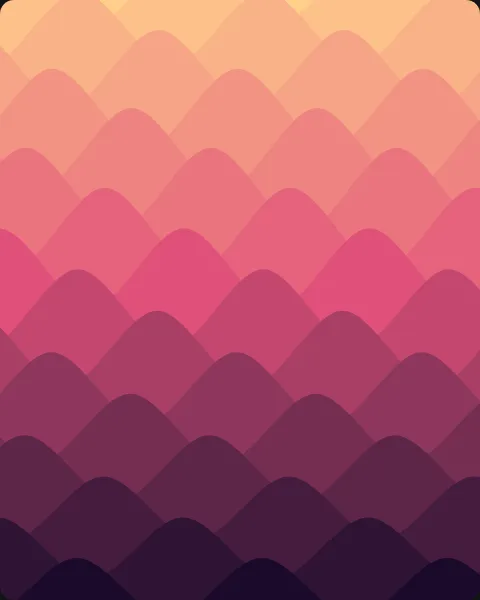
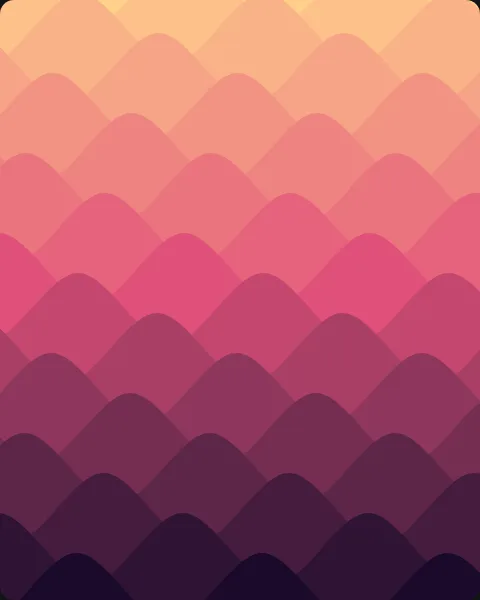
133차: 앱스트랙트 밸리 모션 — 옆 이동 대신 능선이 위→아래로 내려오며(한 층 5초) 색이 위치 따라 바뀜, 맨 위에서 새 능선 생성 · 아래로 빠짐
Claude-Session: https://claude.ai/code/session_018YFXtycg7XUaka8AzxDZiV

diff --git a/app/new/js/bg.js b/app/new/js/bg.js
@@ -2062,7 +2062,7 @@ function vaLab(h) { const [r, g, b] = hx3(h).map(vaLin), l = Math.cbrt(.41222147
   return [.2104542553 * l + .793617785 * m - .0040720468 * s, 1.9779984951 * l - 2.428592205 * m + .4505937099 * s, .0259040371 * l + .7827717662 * m - .808675766 * s]; }
 function vaRgb([L, A, B]) { const l = (L + .3963377774 * A + .2158037573 * B) ** 3, m = (L - .1055613458 * A - .0638541728 * B) ** 3, s = (L - .0894841775 * A - 1.291485548 * B) ** 3;
   return 'rgb(' + [4.0767416621 * l - 3.3077115913 * m + .2309699292 * s, -1.2684380046 * l + 2.6097574011 * m - .3413193965 * s, -.0041960863 * l - .7034186147 * m + 1.707614701 * s].map(v => Math.round(Math.max(0, Math.min(1, vaGam(v))) * 255)).join(',') + ')'; }
-function valleyRamp(pi, n) {   // 위 → 가운데 → 아래, n색
+function valleyRamp(pi, n) {   // 위 → 가운데 → 아래, n색 (위치에 따라 고르게 집어 쓰도록 촘촘히)
   const key = pi + '|' + n; let R = vaRamp.get(key); if (R) return R;
   const E = VALLEY_PAL[pi], A = vaLab(E[1]), B = vaLab(E[2]), C = vaLab(E[3]);
   R = Array.from({ length: n }, (_, i) => { const u = i / (n - 1), [P, Q, k] = u < .5 ? [A, B, u * 2] : [B, C, u * 2 - 1]; return vaRgb(P.map((v, j) => v + (Q[j] - v) * k)); });
@@ -2074,24 +2074,27 @@ function valleyOf(seed) {
   if (vaCache.size > 60) vaCache.delete(vaCache.keys().next().value);
   vaCache.set(seed, p); return p;
 }
+// 모션 (132차 2, 앤드류 11-26): 능선 모양은 층마다 고정 · 층 전체가 위→아래로 천천히 내려오며(한 층 5초) 색은 위치 따라 밝음→깊음 · 맨 위에서 새 능선이 생겨나고 맨 아래로 빠져나가요. 옆 이동 없음.
 function drawValley(cv, seed, t) {
   const W = cv.width, H = cv.height, P = valleyOf(seed), pi = valleyPal(seed, cv.dataset.pal), light = !!VALLEY_PAL[pi][4], x = cv.getContext('2d');
-  const N = P.n, C = valleyRamp(pi, N + 2), ax = W * P.ax, ay = W * P.ay;
+  const N = P.n, K = 8, M = (N + 1) * K + 1, C = valleyRamp(pi, M), ax = W * P.ax, ay = W * P.ay;
+  const col = q => C[Math.max(0, Math.min(M - 1, Math.round(q / (N + 1) * (M - 1))))];   // 위치 q(0 = 맨 위 바탕 … N+1 = 맨 아래)의 색
+  const sc = t / 5, base = Math.floor(sc), f = sc - base;
   x.globalCompositeOperation = 'source-over'; x.globalAlpha = 1;
-  x.fillStyle = P.line ? (light ? C[0] : C[N + 1]) : C[0]; x.fillRect(0, 0, W, H);
+  x.fillStyle = P.line ? (light ? C[0] : C[M - 1]) : C[0]; x.fillRect(0, 0, W, H);
   if (P.line) { x.lineWidth = W * .004; x.lineJoin = 'round'; }
-  for (let i = 0; i <= N; i++) {
-    const root = H * (i / N) - H * .02, sh = W * P.off * i * 6 + t * W * .012 * (1 + i / N * 1.5), amp = ay * (1 + .15 * Math.sin(t / 4 + i * .3));
+  for (let q = -1; q <= N; q++) {
+    const id = q - base, pos = q + f, root = H * (pos / N) - H * .02, sh = W * P.off * id * 6;
     const j0 = Math.floor((sh - W * .3) / ax) - 1;
     x.beginPath(); let px = 0, py = 0, first = true, x0 = 0;
     for (let j = j0; (j - 2) * ax - sh < W; j++) {
-      const h = vaH(P.s + i * 101, j), jit = P.crazy ? (h - .5) * ax * .5 : 0, sg = P.crazy ? (vaH(P.s + i * 31, j + 7) < .5 ? 1 : -1) * (.4 + .6 * h) : (j & 1 ? 1 : -1);
-      const cx = j * ax + jit - sh, cy = root + sg * amp;
+      const h = vaH(P.s + id * 101, j), jit = P.crazy ? (h - .5) * ax * .5 : 0, sg = P.crazy ? (vaH(P.s + id * 31, j + 7) < .5 ? 1 : -1) * (.4 + .6 * h) : (j & 1 ? 1 : -1);
+      const cx = j * ax + jit - sh, cy = root + sg * ay;
       if (first) { x.moveTo(cx, cy); x0 = cx; first = false; } else { const d = (cx - px) / P.sm; x.bezierCurveTo(px + d, py, cx - d, cy, cx, cy); }
       px = cx; py = cy;
     }
-    if (P.line) { x.strokeStyle = light ? C[Math.min(N + 1, Math.max(Math.round(N * .4), i + 1))] : C[i]; x.stroke(); }
-    else { x.lineTo(px, H + 10); x.lineTo(x0, H + 10); x.closePath(); x.fillStyle = C[i + 1]; x.fill(); }
+    if (P.line) { x.strokeStyle = light ? col(Math.max((N + 1) * .4, pos + 1)) : col(pos); x.globalAlpha = Math.max(0, Math.min(1, pos + 1)); x.stroke(); x.globalAlpha = 1; }
+    else { x.lineTo(px, H + 10); x.lineTo(x0, H + 10); x.closePath(); x.fillStyle = col(pos + 1); x.fill(); }
   }
 }
 function fractalTile(o, seed) {

diff --git a/app/new/js/templates.js b/app/new/js/templates.js
@@ -36,7 +36,7 @@ const PREVIEW = [
     ex: [['퇴근길 하늘이 이상하게 예뻐서 버스를 한 정거장 일찍 내렸다.', 5, '45'], ['새벽에 눈이 일찍 떠져서 창밖이 밝아오는 걸 오래 봤다.', 21, '916'], ['오늘은 걷기만 했는데도 좋은 하루였다.', 13, '11']],
     preview: true },
   { id: 'valley', fmt: 'valley', name: '앱스트랙트 밸리', kind: '아트', pop: 40, added: '2026-11-26', motion: true, paid: true,
-    desc: ['물결 면이 겹겹이 쌓여 골짜기를 이루는 그림.', '셔플마다 층 수 · 물결 모양 · 거친 산맥과 색,', '층마다 다른 속도로 옆으로 흐르는 모션.'],
+    desc: ['물결 면이 겹겹이 쌓여 골짜기를 이루는 그림.', '셔플마다 층 수 · 물결 모양 · 거친 산맥과 색,', '능선이 위에서 아래로 내려오며 산을 넘는 모션.'],
     tags: ['감성', '짧은글'], words: ['산', '골짜기', '물결', '바다', '노을', '풍경', '여행', '고요', '자연', '기분', '추상', '겹'],
     ex: [['오늘은 아무 생각 없이 창밖만 보았다. 구름이 천천히 흘렀다.', 11, '45'], ['오후 내내 카페에 앉아 있었다. 창에 비친 불빛들이 번지고 겹치면서 산등성이처럼 겹겹이 보였다.', 21, '916'], ['겹겹이 쌓인 하루.', 30, '11']],
     preview: true },

diff --git a/app/new/js/main.js b/app/new/js/main.js
@@ -1983,7 +1983,7 @@ const REC_T = { 밤: '밤에 쓰기 좋은', 비: '비 오는 날엔', 눈: '눈
 const WXK = { sun: '맑음', suncloud: '구름 조금', cloud: '흐림', rain: '비', snow: '눈', thunder: '천둥', fog: '안개' };
 const dayLine = (now = new Date()) => { let w = ''; try { const x = JSON.parse(localStorage.getItem('daytale.wx') || 'null'); if (x && Date.now() - x.at < 3 * 3600e3 && WXK[x.kind]) w = ` · ${WXK[x.kind]}${x.temp != null ? ` ${x.temp}°` : ''}`; } catch {} return `${now.getMonth() + 1}월 ${now.getDate()}일 ${'일월화수목금토'[now.getDay()]}요일${w}`; };
 // 78차: 새 버전 확인. 앱으로 돌아올 때(다른 앱 갔다 오기) version.txt가 지금과 다르면 저절로 새로 고쳐요. 쓰는 중엔 안 해요
-const BUILD = '132', BUILD_TAG = '11-26 132차';
+const BUILD = '133', BUILD_TAG = '11-26 133차';
 let verAt = 0;
 const checkVer = () => {
   if (document.hidden || Date.now() - verAt < 20e3) return; verAt = Date.now();
